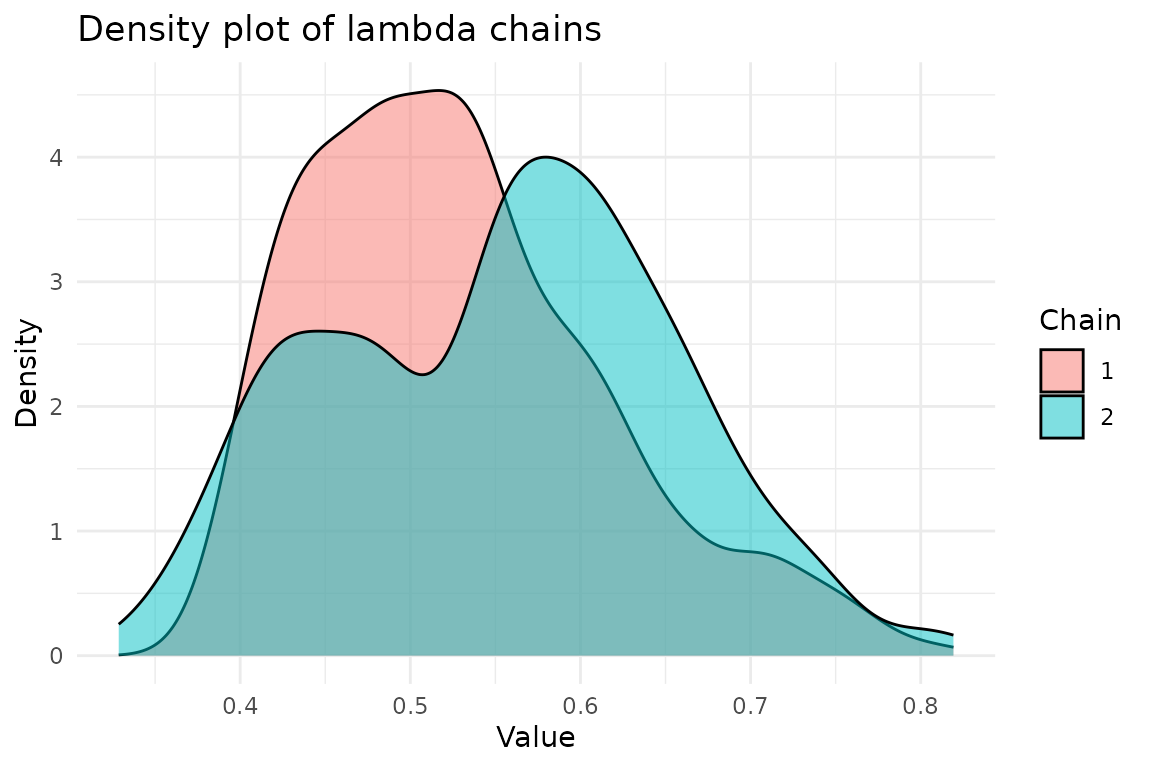
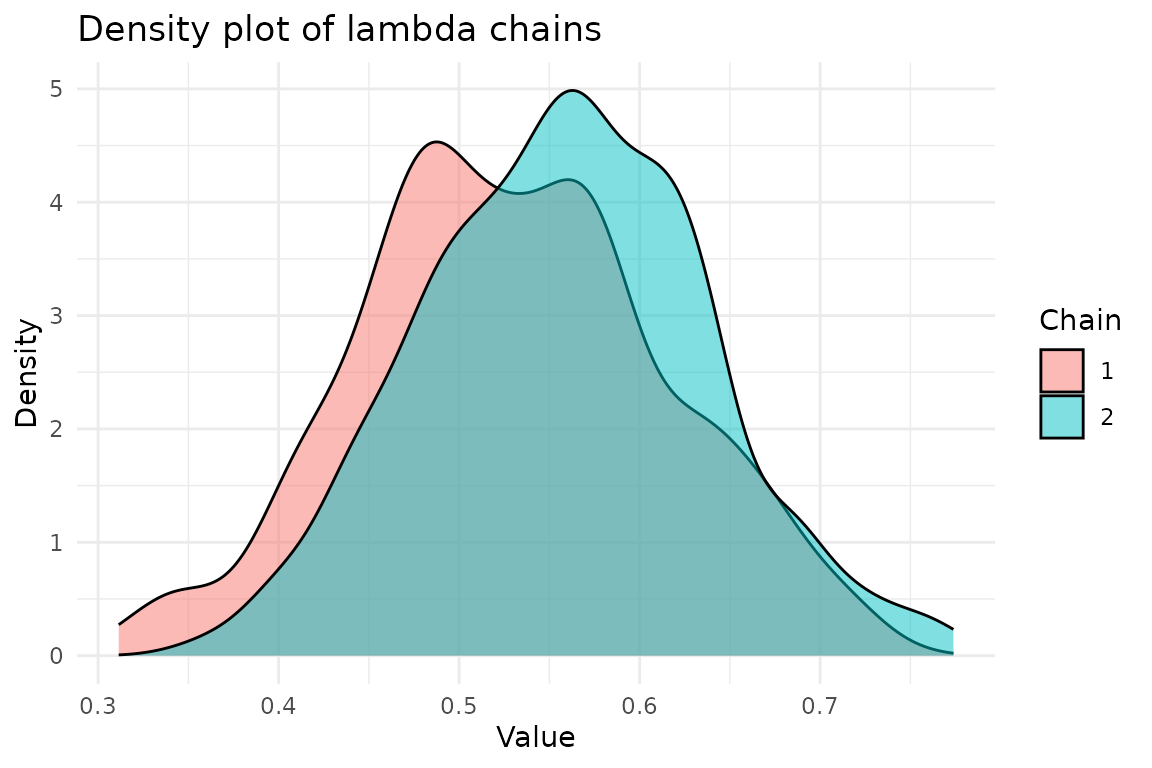
Deploying to gh-pages from @ BjarkeHautop/bayesSSM@4106cea7c2cdfe8b91dc657322c9f366e95e26e8 🚀

diff --git a/reference/pmmh.html b/reference/pmmh.html
@@ -13,7 +13,7 @@ particles for the particle filter, and then runs the main PMMH chain."><meta pro
 
     <a class="navbar-brand me-2" href="../index.html">bayesSSM</a>
 
-    <small class="nav-text text-muted me-auto" data-bs-toggle="tooltip" data-bs-placement="bottom" title="">0.3.4</small>
+    <small class="nav-text text-muted me-auto" data-bs-toggle="tooltip" data-bs-placement="bottom" title="">0.4.0</small>
 
 
     <button class="navbar-toggler" type="button" data-bs-toggle="collapse" data-bs-target="#navbar" aria-controls="navbar" aria-expanded="false" aria-label="Toggle navigation">
@@ -58,7 +58,7 @@ particles for the particle filter, and then runs the main PMMH chain.</p>
 <span>  <span class="va">transition_fn</span>,</span>
 <span>  <span class="va">log_likelihood_fn</span>,</span>
 <span>  <span class="va">log_priors</span>,</span>
-<span>  <span class="va">init_params</span>,</span>
+<span>  <span class="va">pilot_init_params</span>,</span>
 <span>  <span class="va">burn_in</span>,</span>
 <span>  num_chains <span class="op">=</span> <span class="fl">4</span>,</span>
 <span>  obs_times <span class="op">=</span> <span class="cn">NULL</span>,</span>
@@ -105,8 +105,10 @@ for the state-space model given latent states.</p></dd>
 parameter.</p></dd>
 
 
-<dt id="arg-init-params">init_params<a class="anchor" aria-label="anchor" href="#arg-init-params"></a></dt>
-<dd><p>A vector of initial parameter values.</p></dd>
+<dt id="arg-pilot-init-params">pilot_init_params<a class="anchor" aria-label="anchor" href="#arg-pilot-init-params"></a></dt>
+<dd><p>A list of initial parameter values. Should be a list
+of length <code>num_chains</code> where each element is a named vector of initial
+parameter values.</p></dd>
 
 
 <dt id="arg-burn-in">burn_in<a class="anchor" aria-label="anchor" href="#arg-burn-in"></a></dt>
@@ -251,7 +253,10 @@ Journal of the Royal Statistical Society: Series B (Statistical Methodology),
 <span class="r-in"><span>  transition_fn <span class="op">=</span> <span class="va">transition_fn</span>,</span></span>
 <span class="r-in"><span>  log_likelihood_fn <span class="op">=</span> <span class="va">log_likelihood_fn</span>,</span></span>
 <span class="r-in"><span>  log_priors <span class="op">=</span> <span class="va">log_priors</span>,</span></span>
-<span class="r-in"><span>  init_params <span class="op">=</span> <span class="fu"><a href="https://rdrr.io/r/base/c.html" class="external-link">c</a></span><span class="op">(</span>phi <span class="op">=</span> <span class="fl">0.8</span>, sigma_x <span class="op">=</span> <span class="fl">1</span>, sigma_y <span class="op">=</span> <span class="fl">0.5</span><span class="op">)</span>,</span></span>
+<span class="r-in"><span>  pilot_init_params <span class="op">=</span> <span class="fu"><a href="https://rdrr.io/r/base/list.html" class="external-link">list</a></span><span class="op">(</span></span></span>
+<span class="r-in"><span>    <span class="fu"><a href="https://rdrr.io/r/base/c.html" class="external-link">c</a></span><span class="op">(</span>phi <span class="op">=</span> <span class="fl">0.8</span>, sigma_x <span class="op">=</span> <span class="fl">1</span>, sigma_y <span class="op">=</span> <span class="fl">0.5</span><span class="op">)</span>,</span></span>
+<span class="r-in"><span>    <span class="fu"><a href="https://rdrr.io/r/base/c.html" class="external-link">c</a></span><span class="op">(</span>phi <span class="op">=</span> <span class="fl">1</span>, sigma_x <span class="op">=</span> <span class="fl">0.5</span>, sigma_y <span class="op">=</span> <span class="fl">1</span><span class="op">)</span></span></span>
+<span class="r-in"><span>  <span class="op">)</span>,</span></span>
 <span class="r-in"><span>  burn_in <span class="op">=</span> <span class="fl">100</span>,</span></span>
 <span class="r-in"><span>  num_chains <span class="op">=</span> <span class="fl">2</span>,</span></span>
 <span class="r-in"><span>  param_transform <span class="op">=</span> <span class="fu"><a href="https://rdrr.io/r/base/list.html" class="external-link">list</a></span><span class="op">(</span></span></span>
@@ -263,17 +268,17 @@ Journal of the Royal Statistical Society: Series B (Statistical Methodology),
 <span class="r-in"><span><span class="op">)</span></span></span>
 <span class="r-msg co"><span class="r-pr">#&gt;</span> Running chain 1...</span>
 <span class="r-msg co"><span class="r-pr">#&gt;</span> Running pilot chain for tuning...</span>
-<span class="r-msg co"><span class="r-pr">#&gt;</span> Using 100 particles for PMMH:</span>
+<span class="r-msg co"><span class="r-pr">#&gt;</span> Using 50 particles for PMMH:</span>
 <span class="r-msg co"><span class="r-pr">#&gt;</span> Running particle MCMC chain with tuned settings...</span>
 <span class="r-msg co"><span class="r-pr">#&gt;</span> Running chain 2...</span>
 <span class="r-msg co"><span class="r-pr">#&gt;</span> Running pilot chain for tuning...</span>
-<span class="r-msg co"><span class="r-pr">#&gt;</span> Using 100 particles for PMMH:</span>
+<span class="r-msg co"><span class="r-pr">#&gt;</span> Using 50 particles for PMMH:</span>
 <span class="r-msg co"><span class="r-pr">#&gt;</span> Running particle MCMC chain with tuned settings...</span>
 <span class="r-out co"><span class="r-pr">#&gt;</span> PMMH Results Summary:</span>
 <span class="r-out co"><span class="r-pr">#&gt;</span>  Parameter Mean   SD Median CI Lower.2.5% CI Upper.97.5% ESS  Rhat</span>
-<span class="r-out co"><span class="r-pr">#&gt;</span>        phi 0.87 0.08   0.88          0.70           1.00 166 1.023</span>
-<span class="r-out co"><span class="r-pr">#&gt;</span>    sigma_x 0.55 0.35   0.55          0.01           1.26  32 1.002</span>
-<span class="r-out co"><span class="r-pr">#&gt;</span>    sigma_y 0.73 0.30   0.77          0.14           1.25  26 1.011</span>
+<span class="r-out co"><span class="r-pr">#&gt;</span>        phi 0.88 0.08   0.89          0.71           1.03  81 1.003</span>
+<span class="r-out co"><span class="r-pr">#&gt;</span>    sigma_x 0.52 0.29   0.50          0.05           1.16  70 1.016</span>
+<span class="r-out co"><span class="r-pr">#&gt;</span>    sigma_y 0.83 0.24   0.83          0.35           1.30  82 1.041</span>
 <span class="r-wrn co"><span class="r-pr">#&gt;</span> <span class="warning">Warning: </span>Some ESS values are below 400, indicating poor mixing. Consider running the chains for more iterations.</span>
 <span class="r-wrn co"><span class="r-pr">#&gt;</span> <span class="warning">Warning: </span></span>
 <span class="r-wrn co"><span class="r-pr">#&gt;</span> Some Rhat values are above 1.01, indicating that the chains have not converged. Consider running the chains for more iterations and/or increase burn_in.</span>

diff --git a/articles/bayesSSM.html b/articles/bayesSSM.html
@@ -26,7 +26,7 @@
 
     <a class="navbar-brand me-2" href="../index.html">bayesSSM</a>
 
-    <small class="nav-text text-muted me-auto" data-bs-toggle="tooltip" data-bs-placement="bottom" title="">0.3.4</small>
+    <small class="nav-text text-muted me-auto" data-bs-toggle="tooltip" data-bs-placement="bottom" title="">0.4.0</small>
 
 
     <button class="navbar-toggler" type="button" data-bs-toggle="collapse" data-bs-target="#navbar" aria-controls="navbar" aria-expanded="false" aria-label="Toggle navigation">
@@ -192,7 +192,10 @@ should be on the
 <span>  transition_fn <span class="op">=</span> <span class="va">transition_fn</span>,</span>
 <span>  log_likelihood_fn <span class="op">=</span> <span class="va">log_likelihood_fn</span>,</span>
 <span>  log_priors <span class="op">=</span> <span class="va">log_priors</span>,</span>
-<span>  init_params <span class="op">=</span> <span class="fu"><a href="https://rdrr.io/r/base/c.html" class="external-link">c</a></span><span class="op">(</span>phi <span class="op">=</span> <span class="fl">0.5</span>, sigma_x <span class="op">=</span> <span class="fl">0.5</span>, sigma_y <span class="op">=</span> <span class="fl">0.5</span><span class="op">)</span>,</span>
+<span>  pilot_init_params <span class="op">=</span> <span class="fu"><a href="https://rdrr.io/r/base/list.html" class="external-link">list</a></span><span class="op">(</span></span>
+<span>    <span class="fu"><a href="https://rdrr.io/r/base/c.html" class="external-link">c</a></span><span class="op">(</span>phi <span class="op">=</span> <span class="fl">0.5</span>, sigma_x <span class="op">=</span> <span class="fl">0.5</span>, sigma_y <span class="op">=</span> <span class="fl">0.5</span><span class="op">)</span>,</span>
+<span>    <span class="fu"><a href="https://rdrr.io/r/base/c.html" class="external-link">c</a></span><span class="op">(</span>phi <span class="op">=</span> <span class="fl">1</span>, sigma_x <span class="op">=</span> <span class="fl">1</span>, sigma_y <span class="op">=</span> <span class="fl">1</span><span class="op">)</span></span>
+<span>  <span class="op">)</span>,</span>
 <span>  burn_in <span class="op">=</span> <span class="fl">500</span>,</span>
 <span>  num_chains <span class="op">=</span> <span class="fl">2</span>,</span>
 <span>  seed <span class="op">=</span> <span class="fl">1405</span>,</span>
@@ -220,19 +223,19 @@ should be on the
 <span><span class="co">#&gt; Running pilot chain for tuning...</span></span>
 <span><span class="co">#&gt; Pilot chain posterior mean:</span></span>
 <span><span class="co">#&gt;       phi   sigma_x   sigma_y </span></span>
-<span><span class="co">#&gt; 0.8184567 1.0644745 0.3392965</span></span>
+<span><span class="co">#&gt; 0.8812057 1.0848807 0.4658913</span></span>
 <span><span class="co">#&gt; Pilot chain posterior covariance (on transformed space):</span></span>
-<span><span class="co">#&gt;                 phi      sigma_x      sigma_y</span></span>
-<span><span class="co">#&gt; phi     0.003821179 0.0028295500 0.0011276751</span></span>
-<span><span class="co">#&gt; sigma_x 0.002829550 0.0032576751 0.0007982934</span></span>
-<span><span class="co">#&gt; sigma_y 0.001127675 0.0007982934 0.0004036178</span></span>
-<span><span class="co">#&gt; Using 212 particles for PMMH:</span></span>
+<span><span class="co">#&gt;                 phi     sigma_x     sigma_y</span></span>
+<span><span class="co">#&gt; phi     0.007434263 0.001144670 0.009504590</span></span>
+<span><span class="co">#&gt; sigma_x 0.001144670 0.001140286 0.003064856</span></span>
+<span><span class="co">#&gt; sigma_y 0.009504590 0.003064856 0.034485300</span></span>
+<span><span class="co">#&gt; Using 132 particles for PMMH:</span></span>
 <span><span class="co">#&gt; Running particle MCMC chain with tuned settings...</span></span>
 <span><span class="co">#&gt; PMMH Results Summary:</span></span>
 <span><span class="co">#&gt;  Parameter Mean   SD Median CI Lower.2.5% CI Upper.97.5% ESS  Rhat</span></span>
-<span><span class="co">#&gt;        phi 0.85 0.06   0.85          0.75           0.97  61 1.008</span></span>
-<span><span class="co">#&gt;    sigma_x 0.81 0.12   0.75          0.69           1.11   1 1.049</span></span>
-<span><span class="co">#&gt;    sigma_y 0.49 0.10   0.47          0.34           0.75   5 1.000</span></span>
+<span><span class="co">#&gt;        phi 0.84 0.06   0.84          0.73           0.98  16 1.117</span></span>
+<span><span class="co">#&gt;    sigma_x 0.72 0.07   0.72          0.57           0.85   8 1.414</span></span>
+<span><span class="co">#&gt;    sigma_y 0.58 0.15   0.57          0.33           0.93  13 1.136</span></span>
 <span><span class="co">#&gt; Warning in pmmh(y = y, m = 1000, init_fn = init_fn, transition_fn =</span></span>
 <span><span class="co">#&gt; transition_fn, : Some ESS values are below 400, indicating poor mixing.</span></span>
 <span><span class="co">#&gt; Consider running the chains for more iterations.</span></span>
@@ -248,9 +251,9 @@ be printed from any <code>pmmh_output</code> object by calling
 <code class="sourceCode R"><span><span class="fu"><a href="https://rdrr.io/r/base/print.html" class="external-link">print</a></span><span class="op">(</span><span class="va">result</span><span class="op">)</span></span>
 <span><span class="co">#&gt; PMMH Results Summary:</span></span>
 <span><span class="co">#&gt;  Parameter Mean   SD Median CI Lower.2.5% CI Upper.97.5% ESS  Rhat</span></span>
-<span><span class="co">#&gt;        phi 0.85 0.06   0.85          0.75           0.97  61 1.008</span></span>
-<span><span class="co">#&gt;    sigma_x 0.81 0.12   0.75          0.69           1.11   1 1.049</span></span>
-<span><span class="co">#&gt;    sigma_y 0.49 0.10   0.47          0.34           0.75   5 1.000</span></span></code></pre></div>
+<span><span class="co">#&gt;        phi 0.84 0.06   0.84          0.73           0.98  16 1.117</span></span>
+<span><span class="co">#&gt;    sigma_x 0.72 0.07   0.72          0.57           0.85   8 1.414</span></span>
+<span><span class="co">#&gt;    sigma_y 0.58 0.15   0.57          0.33           0.93  13 1.136</span></span></code></pre></div>
 <p>The chains are saved as <code>theta_chain</code></p>
 <div class="sourceCode" id="cb8"><pre class="downlit sourceCode r">
 <code class="sourceCode R"><span><span class="va">chains</span> <span class="op">&lt;-</span> <span class="va">result</span><span class="op">$</span><span class="va">theta_chain</span></span></code></pre></div>

diff --git a/articles/sir-model.html b/articles/sir-model.html
@@ -26,7 +26,7 @@
 
     <a class="navbar-brand me-2" href="../index.html">bayesSSM</a>
 
-    <small class="nav-text text-muted me-auto" data-bs-toggle="tooltip" data-bs-placement="bottom" title="">0.3.4</small>
+    <small class="nav-text text-muted me-auto" data-bs-toggle="tooltip" data-bs-placement="bottom" title="">0.4.0</small>
 
 
     <button class="navbar-toggler" type="button" data-bs-toggle="collapse" data-bs-target="#navbar" aria-controls="navbar" aria-expanded="false" aria-label="Toggle navigation">
@@ -392,7 +392,10 @@ burn-in of 10). In practice, these should be much higher.</p>
 <span>  transition_fn <span class="op">=</span> <span class="va">transition_fn_gillespie</span>,</span>
 <span>  log_likelihood_fn <span class="op">=</span> <span class="va">log_likelihood_fn_epidemic</span>,</span>
 <span>  log_priors <span class="op">=</span> <span class="va">log_priors</span>,</span>
-<span>  init_params <span class="op">=</span> <span class="fu"><a href="https://rdrr.io/r/base/c.html" class="external-link">c</a></span><span class="op">(</span>lambda <span class="op">=</span> <span class="fl">0.5</span>, gamma <span class="op">=</span> <span class="fl">0.5</span><span class="op">)</span>,</span>
+<span>  pilot_init_params <span class="op">=</span> <span class="fu"><a href="https://rdrr.io/r/base/list.html" class="external-link">list</a></span><span class="op">(</span></span>
+<span>    <span class="fu"><a href="https://rdrr.io/r/base/c.html" class="external-link">c</a></span><span class="op">(</span>lambda <span class="op">=</span> <span class="fl">0.5</span>, gamma <span class="op">=</span> <span class="fl">0.5</span><span class="op">)</span>,</span>
+<span>    <span class="fu"><a href="https://rdrr.io/r/base/c.html" class="external-link">c</a></span><span class="op">(</span>lambda <span class="op">=</span> <span class="fl">1</span>, gamma <span class="op">=</span> <span class="fl">1</span><span class="op">)</span></span>
+<span>  <span class="op">)</span>,</span>
 <span>  burn_in <span class="op">=</span> <span class="fl">200</span>,</span>
 <span>  num_chains <span class="op">=</span> <span class="fl">2</span>,</span>
 <span>  param_transform <span class="op">=</span> <span class="fu"><a href="https://rdrr.io/r/base/list.html" class="external-link">list</a></span><span class="op">(</span>lambda <span class="op">=</span> <span class="st">"log"</span>, gamma <span class="op">=</span> <span class="st">"log"</span><span class="op">)</span>,</span>
@@ -409,28 +412,26 @@ burn-in of 10). In practice, these should be much higher.</p>
 <span><span class="co">#&gt;              lambda        gamma</span></span>
 <span><span class="co">#&gt; lambda 0.0008844233 1.541392e-04</span></span>
 <span><span class="co">#&gt; gamma  0.0001541392 2.686372e-05</span></span>
-<span><span class="co">#&gt; Using 100 particles for PMMH:</span></span>
+<span><span class="co">#&gt; Using 50 particles for PMMH:</span></span>
 <span><span class="co">#&gt; Running particle MCMC chain with tuned settings...</span></span>
 <span><span class="co">#&gt; Running chain 2...</span></span>
 <span><span class="co">#&gt; Running pilot chain for tuning...</span></span>
 <span><span class="co">#&gt; Pilot chain posterior mean:</span></span>
 <span><span class="co">#&gt;    lambda     gamma </span></span>
-<span><span class="co">#&gt; 0.4330822 0.1846308</span></span>
+<span><span class="co">#&gt; 0.4836044 0.1932088</span></span>
 <span><span class="co">#&gt; Pilot chain posterior covariance (on transformed space):</span></span>
 <span><span class="co">#&gt;             lambda        gamma</span></span>
-<span><span class="co">#&gt; lambda 0.002879192 0.0014148984</span></span>
-<span><span class="co">#&gt; gamma  0.001414898 0.0008559071</span></span>
-<span><span class="co">#&gt; Using 100 particles for PMMH:</span></span>
+<span><span class="co">#&gt; lambda 0.003489003 0.0010409719</span></span>
+<span><span class="co">#&gt; gamma  0.001040972 0.0006378948</span></span>
+<span><span class="co">#&gt; Using 50 particles for PMMH:</span></span>
 <span><span class="co">#&gt; Running particle MCMC chain with tuned settings...</span></span>
 <span><span class="co">#&gt; PMMH Results Summary:</span></span>
 <span><span class="co">#&gt;  Parameter Mean   SD Median CI Lower.2.5% CI Upper.97.5% ESS  Rhat</span></span>
-<span><span class="co">#&gt;     lambda 0.54 0.10   0.54          0.39           0.74  28 1.117</span></span>
-<span><span class="co">#&gt;      gamma 0.20 0.02   0.19          0.16           0.25   4 1.051</span></span>
+<span><span class="co">#&gt;     lambda 0.54 0.08   0.54          0.39           0.71  55 1.007</span></span>
+<span><span class="co">#&gt;      gamma 0.20 0.02   0.20          0.15           0.25   3 1.002</span></span>
 <span><span class="co">#&gt; Warning in bayesSSM::pmmh(y = observations, m = 1000, init_fn =</span></span>
 <span><span class="co">#&gt; init_fn_epidemic, : Some ESS values are below 400, indicating poor mixing.</span></span>
-<span><span class="co">#&gt; Consider running the chains for more iterations.</span></span>
-<span><span class="co">#&gt; Warning in bayesSSM::pmmh(y = observations, m = 1000, init_fn = init_fn_epidemic, : </span></span>
-<span><span class="co">#&gt; Some Rhat values are above 1.01, indicating that the chains have not converged. Consider running the chains for more iterations and/or increase burn_in.</span></span></code></pre></div>
+<span><span class="co">#&gt; Consider running the chains for more iterations.</span></span></code></pre></div>
 <p>We get convergence warnings as expected, but we still recover the
 true values.</p>
 <p>We can access the chains and plot the densities:</p>

diff --git a/index.html b/index.html
@@ -29,7 +29,7 @@
 
     <a class="navbar-brand me-2" href="index.html">bayesSSM</a>
 
-    <small class="nav-text text-muted me-auto" data-bs-toggle="tooltip" data-bs-placement="bottom" title="">0.3.4</small>
+    <small class="nav-text text-muted me-auto" data-bs-toggle="tooltip" data-bs-placement="bottom" title="">0.4.0</small>
 
 
     <button class="navbar-toggler" type="button" data-bs-toggle="collapse" data-bs-target="#navbar" aria-controls="navbar" aria-expanded="false" aria-label="Toggle navigation">
@@ -156,7 +156,10 @@
 <span>  transition_fn <span class="op">=</span> <span class="va">transition_fn</span>,</span>
 <span>  log_likelihood_fn <span class="op">=</span> <span class="va">log_likelihood_fn</span>,</span>
 <span>  log_priors <span class="op">=</span> <span class="va">log_priors</span>,</span>
-<span>  init_params <span class="op">=</span> <span class="fu"><a href="https://rdrr.io/r/base/c.html" class="external-link">c</a></span><span class="op">(</span>phi <span class="op">=</span> <span class="fl">0.5</span>, sigma_x <span class="op">=</span> <span class="fl">0.5</span>, sigma_y <span class="op">=</span> <span class="fl">0.5</span><span class="op">)</span>,</span>
+<span>  pilot_init_params <span class="op">=</span> <span class="fu"><a href="https://rdrr.io/r/base/list.html" class="external-link">list</a></span><span class="op">(</span></span>
+<span>    <span class="fu"><a href="https://rdrr.io/r/base/c.html" class="external-link">c</a></span><span class="op">(</span>phi <span class="op">=</span> <span class="fl">0.5</span>, sigma_x <span class="op">=</span> <span class="fl">0.5</span>, sigma_y <span class="op">=</span> <span class="fl">0.5</span><span class="op">)</span>,</span>
+<span>    <span class="fu"><a href="https://rdrr.io/r/base/c.html" class="external-link">c</a></span><span class="op">(</span>phi <span class="op">=</span> <span class="fl">1</span>, sigma_x <span class="op">=</span> <span class="fl">1</span>, sigma_y <span class="op">=</span> <span class="fl">1</span><span class="op">)</span></span>
+<span>  <span class="op">)</span>,</span>
 <span>  burn_in <span class="op">=</span> <span class="fl">50</span>,</span>
 <span>  num_chains <span class="op">=</span> <span class="fl">2</span>,</span>
 <span>  seed <span class="op">=</span> <span class="fl">1405</span>,</span>
@@ -164,20 +167,20 @@
 <span><span class="op">)</span></span>
 <span><span class="co">#&gt; Running chain 1...</span></span>
 <span><span class="co">#&gt; Running pilot chain for tuning...</span></span>
-<span><span class="co">#&gt; Using 100 particles for PMMH:</span></span>
+<span><span class="co">#&gt; Using 1000 particles for PMMH:</span></span>
 <span><span class="co">#&gt; Running particle MCMC chain with tuned settings...</span></span>
 <span><span class="co">#&gt; Running chain 2...</span></span>
 <span><span class="co">#&gt; Running pilot chain for tuning...</span></span>
-<span><span class="co">#&gt; Using 100 particles for PMMH:</span></span>
+<span><span class="co">#&gt; Using 466 particles for PMMH:</span></span>
 <span><span class="co">#&gt; Running particle MCMC chain with tuned settings...</span></span>
+<span><span class="co">#&gt; Warning in ess(param_chain): One or more chains have zero variance.</span></span>
+<span><span class="co">#&gt; Warning in ess(param_chain): One or more chains have zero variance.</span></span>
+<span><span class="co">#&gt; Warning in ess(param_chain): One or more chains have zero variance.</span></span>
 <span><span class="co">#&gt; PMMH Results Summary:</span></span>
 <span><span class="co">#&gt;  Parameter Mean   SD Median CI Lower.2.5% CI Upper.97.5% ESS  Rhat</span></span>
-<span><span class="co">#&gt;        phi 0.78 0.11   0.78          0.53           1.00  27 1.054</span></span>
-<span><span class="co">#&gt;    sigma_x 1.14 0.20   1.15          0.78           1.59   5 1.008</span></span>
-<span><span class="co">#&gt;    sigma_y 0.36 0.22   0.29          0.06           0.91  17 1.143</span></span>
-<span><span class="co">#&gt; Warning in pmmh(y = y, m = 500, init_fn = init_fn, transition_fn =</span></span>
-<span><span class="co">#&gt; transition_fn, : Some ESS values are below 400, indicating poor mixing.</span></span>
-<span><span class="co">#&gt; Consider running the chains for more iterations.</span></span>
+<span><span class="co">#&gt;        phi 0.73 0.14   0.63          0.56           1.03  NA 1.051</span></span>
+<span><span class="co">#&gt;    sigma_x 1.84 0.15   1.84          1.42           2.10  NA 1.119</span></span>
+<span><span class="co">#&gt;    sigma_y 0.22 0.20   0.14          0.03           0.87  NA 1.124</span></span>
 <span><span class="co">#&gt; Warning in pmmh(y = y, m = 500, init_fn = init_fn, transition_fn = transition_fn, : </span></span>
 <span><span class="co">#&gt; Some Rhat values are above 1.01, indicating that the chains have not converged. Consider running the chains for more iterations and/or increase burn_in.</span></span></code></pre></div>
 <p>We get convergence warnings as expected due to the small number of iterations.</p>

diff --git a/reference/dot-run_pilot_chain.html b/reference/dot-run_pilot_chain.html
@@ -7,7 +7,7 @@
 
     <a class="navbar-brand me-2" href="../index.html">bayesSSM</a>
 
-    <small class="nav-text text-muted me-auto" data-bs-toggle="tooltip" data-bs-placement="bottom" title="">0.3.4</small>
+    <small class="nav-text text-muted me-auto" data-bs-toggle="tooltip" data-bs-placement="bottom" title="">0.4.0</small>
 
 
     <button class="navbar-toggler" type="button" data-bs-toggle="collapse" data-bs-target="#navbar" aria-controls="navbar" aria-expanded="false" aria-label="Toggle navigation">
@@ -56,7 +56,7 @@
 <span>  algorithm <span class="op">=</span> <span class="fu"><a href="https://rdrr.io/r/base/c.html" class="external-link">c</a></span><span class="op">(</span><span class="st">"SISAR"</span>, <span class="st">"SISR"</span>, <span class="st">"SIS"</span><span class="op">)</span>,</span>
 <span>  resample_fn <span class="op">=</span> <span class="fu"><a href="https://rdrr.io/r/base/c.html" class="external-link">c</a></span><span class="op">(</span><span class="st">"stratified"</span>, <span class="st">"systematic"</span>, <span class="st">"multinomial"</span><span class="op">)</span>,</span>
 <span>  param_transform <span class="op">=</span> <span class="cn">NULL</span>,</span>
-<span>  init_params <span class="op">=</span> <span class="cn">NULL</span>,</span>
+<span>  pilot_init_params <span class="op">=</span> <span class="cn">NULL</span>,</span>
 <span>  verbose <span class="op">=</span> <span class="cn">FALSE</span>,</span>
 <span>  <span class="va">...</span></span>
 <span><span class="op">)</span></span></code></pre></div>
@@ -133,7 +133,7 @@ Currently only supports "log" for log-transformation and
 no transformation ("identity).</p></dd>
 
 
-<dt id="arg-init-params">init_params<a class="anchor" aria-label="anchor" href="#arg-init-params"></a></dt>
+<dt id="arg-pilot-init-params">pilot_init_params<a class="anchor" aria-label="anchor" href="#arg-pilot-init-params"></a></dt>
 <dd><p>A numeric vector of initial parameter values. If `NULL`,
 the default is a vector of ones. Default is `NULL`.</p></dd>
 

diff --git a/reference/rhat.html b/reference/rhat.html
@@ -7,7 +7,7 @@
 
     <a class="navbar-brand me-2" href="../index.html">bayesSSM</a>
 
-    <small class="nav-text text-muted me-auto" data-bs-toggle="tooltip" data-bs-placement="bottom" title="">0.3.4</small>
+    <small class="nav-text text-muted me-auto" data-bs-toggle="tooltip" data-bs-placement="bottom" title="">0.4.0</small>
 
 
     <button class="navbar-toggler" type="button" data-bs-toggle="collapse" data-bs-target="#navbar" aria-controls="navbar" aria-expanded="false" aria-label="Toggle navigation">
@@ -70,7 +70,7 @@
     <h2 id="ref-examples">Examples<a class="anchor" aria-label="anchor" href="#ref-examples"></a></h2>
     <div class="sourceCode"><pre class="sourceCode r"><code><span class="r-in"><span><span class="va">chains</span> <span class="op">&lt;-</span> <span class="fu"><a href="https://rdrr.io/r/base/matrix.html" class="external-link">matrix</a></span><span class="op">(</span><span class="fu"><a href="https://rdrr.io/r/stats/Normal.html" class="external-link">rnorm</a></span><span class="op">(</span><span class="fl">3000</span><span class="op">)</span>, nrow <span class="op">=</span> <span class="fl">1000</span>, ncol <span class="op">=</span> <span class="fl">3</span><span class="op">)</span></span></span>
 <span class="r-in"><span><span class="fu">rhat</span><span class="op">(</span><span class="va">chains</span><span class="op">)</span></span></span>
-<span class="r-out co"><span class="r-pr">#&gt;</span> [1] 1.000965</span>
+<span class="r-out co"><span class="r-pr">#&gt;</span> [1] 1</span>
 </code></pre></div>
     </div>
   </main><aside class="col-md-3"><nav id="toc" aria-label="Table of contents"><h2>On this page</h2>

diff --git a/reference/print.pmmh_output.html b/reference/print.pmmh_output.html
@@ -7,7 +7,7 @@
 
     <a class="navbar-brand me-2" href="../index.html">bayesSSM</a>
 
-    <small class="nav-text text-muted me-auto" data-bs-toggle="tooltip" data-bs-placement="bottom" title="">0.3.4</small>
+    <small class="nav-text text-muted me-auto" data-bs-toggle="tooltip" data-bs-placement="bottom" title="">0.4.0</small>
 
 
     <button class="navbar-toggler" type="button" data-bs-toggle="collapse" data-bs-target="#navbar" aria-controls="navbar" aria-expanded="false" aria-label="Toggle navigation">
@@ -79,8 +79,8 @@
 <span class="r-in"><span><span class="fu"><a href="https://rdrr.io/r/base/print.html" class="external-link">print</a></span><span class="op">(</span><span class="va">dummy_output</span><span class="op">)</span></span></span>
 <span class="r-out co"><span class="r-pr">#&gt;</span> PMMH Results Summary:</span>
 <span class="r-out co"><span class="r-pr">#&gt;</span>  Parameter Mean   SD Median CI Lower.2.5% CI Upper.97.5% ESS Rhat</span>
-<span class="r-out co"><span class="r-pr">#&gt;</span>     param1 0.11 0.93   0.11         -1.68           2.00 200 1.01</span>
-<span class="r-out co"><span class="r-pr">#&gt;</span>     param2 0.04 1.00   0.09         -1.91           2.08 190 1.00</span>
+<span class="r-out co"><span class="r-pr">#&gt;</span>     param1 0.04 1.00  -0.01         -2.04           1.92 200 1.01</span>
+<span class="r-out co"><span class="r-pr">#&gt;</span>     param2 0.09 0.96   0.07         -1.62           2.08 190 1.00</span>
 </code></pre></div>
     </div>
   </main><aside class="col-md-3"><nav id="toc" aria-label="Table of contents"><h2>On this page</h2>

diff --git a/authors.html b/authors.html
@@ -7,7 +7,7 @@
 
     <a class="navbar-brand me-2" href="index.html">bayesSSM</a>
 
-    <small class="nav-text text-muted me-auto" data-bs-toggle="tooltip" data-bs-placement="bottom" title="">0.3.4</small>
+    <small class="nav-text text-muted me-auto" data-bs-toggle="tooltip" data-bs-placement="bottom" title="">0.4.0</small>
 
 
     <button class="navbar-toggler" type="button" data-bs-toggle="collapse" data-bs-target="#navbar" aria-controls="navbar" aria-expanded="false" aria-label="Toggle navigation">
@@ -49,13 +49,13 @@
 
       <p>Hautop B (2025).
 <em>bayesSSM: Bayesian Methods for State Space Models</em>.
-R package version 0.3.4, https://bjarkehautop.github.io/bayesSSM/, <a href="https://github.com/BjarkeHautop/bayesSSM" class="external-link">https://github.com/BjarkeHautop/bayesSSM</a>.
+R package version 0.4.0, https://bjarkehautop.github.io/bayesSSM/, <a href="https://github.com/BjarkeHautop/bayesSSM" class="external-link">https://github.com/BjarkeHautop/bayesSSM</a>.
 </p>
       <pre>@Manual{,
   title = {bayesSSM: Bayesian Methods for State Space Models},
   author = {Bjarke Hautop},
   year = {2025},
-  note = {R package version 0.3.4, https://bjarkehautop.github.io/bayesSSM/},
+  note = {R package version 0.4.0, https://bjarkehautop.github.io/bayesSSM/},
   url = {https://github.com/BjarkeHautop/bayesSSM},
 }</pre>
     </div>

diff --git a/reference/dot-check_params_match.html b/reference/dot-check_params_match.html
@@ -7,7 +7,7 @@
 
     <a class="navbar-brand me-2" href="../index.html">bayesSSM</a>
 
-    <small class="nav-text text-muted me-auto" data-bs-toggle="tooltip" data-bs-placement="bottom" title="">0.3.4</small>
+    <small class="nav-text text-muted me-auto" data-bs-toggle="tooltip" data-bs-placement="bottom" title="">0.4.0</small>
 
 
     <button class="navbar-toggler" type="button" data-bs-toggle="collapse" data-bs-target="#navbar" aria-controls="navbar" aria-expanded="false" aria-label="Toggle navigation">
@@ -46,7 +46,7 @@
 <span>  <span class="va">init_fn</span>,</span>
 <span>  <span class="va">transition_fn</span>,</span>
 <span>  <span class="va">log_likelihood_fn</span>,</span>
-<span>  <span class="va">init_params</span>,</span>
+<span>  <span class="va">pilot_init_params</span>,</span>
 <span>  <span class="va">log_priors</span></span>
 <span><span class="op">)</span></span></code></pre></div>
     </div>
@@ -69,7 +69,7 @@ state-space model.</p></dd>
 for the state-space model given latent states.</p></dd>
 
 
-<dt id="arg-init-params">init_params<a class="anchor" aria-label="anchor" href="#arg-init-params"></a></dt>
+<dt id="arg-pilot-init-params">pilot_init_params<a class="anchor" aria-label="anchor" href="#arg-pilot-init-params"></a></dt>
 <dd><p>A vector of initial parameter values.</p></dd>
 
 

diff --git a/reference/dot-pilot_run.html b/reference/dot-pilot_run.html
@@ -13,7 +13,7 @@ target number of particles for the Particle Marginal Metropolis Hastings
 
     <a class="navbar-brand me-2" href="../index.html">bayesSSM</a>
 
-    <small class="nav-text text-muted me-auto" data-bs-toggle="tooltip" data-bs-placement="bottom" title="">0.3.4</small>
+    <small class="nav-text text-muted me-auto" data-bs-toggle="tooltip" data-bs-placement="bottom" title="">0.4.0</small>
 
 
     <button class="navbar-toggler" type="button" data-bs-toggle="collapse" data-bs-target="#navbar" aria-controls="navbar" aria-expanded="false" aria-label="Toggle navigation">
@@ -145,7 +145,7 @@ Must be one of <code>"stratified"</code>, <code>"systematic"</code>, or
 filter using the provided parameter vector <code>theta</code>. It then estimates
 the variance of the log-likelihoods and scales the initial particle number
 by this variance. The final number of particles is taken as the ceiling of
-the scaled value with a minimum of 100 and a maximum of 1000.</p>
+the scaled value with a minimum of 50 and a maximum of 1000.</p>
     </div>
 
   </main><aside class="col-md-3"><nav id="toc" aria-label="Table of contents"><h2>On this page</h2>

diff --git a/reference/particle_filter.html b/reference/particle_filter.html
@@ -25,7 +25,7 @@ It is recommended to use either SISR or SISAR to avoid weight degeneracy."><meta
 
     <a class="navbar-brand me-2" href="../index.html">bayesSSM</a>
 
-    <small class="nav-text text-muted me-auto" data-bs-toggle="tooltip" data-bs-placement="bottom" title="">0.3.4</small>
+    <small class="nav-text text-muted me-auto" data-bs-toggle="tooltip" data-bs-placement="bottom" title="">0.4.0</small>
 
 
     <button class="navbar-toggler" type="button" data-bs-toggle="collapse" data-bs-target="#navbar" aria-controls="navbar" aria-expanded="false" aria-label="Toggle navigation">

diff --git a/reference/dot-resample_multinomial.html b/reference/dot-resample_multinomial.html
@@ -9,7 +9,7 @@ These functions implement multinomial, stratified, and systematic resampling."><
 
     <a class="navbar-brand me-2" href="../index.html">bayesSSM</a>
 
-    <small class="nav-text text-muted me-auto" data-bs-toggle="tooltip" data-bs-placement="bottom" title="">0.3.4</small>
+    <small class="nav-text text-muted me-auto" data-bs-toggle="tooltip" data-bs-placement="bottom" title="">0.4.0</small>
 
 
     <button class="navbar-toggler" type="button" data-bs-toggle="collapse" data-bs-target="#navbar" aria-controls="navbar" aria-expanded="false" aria-label="Toggle navigation">
